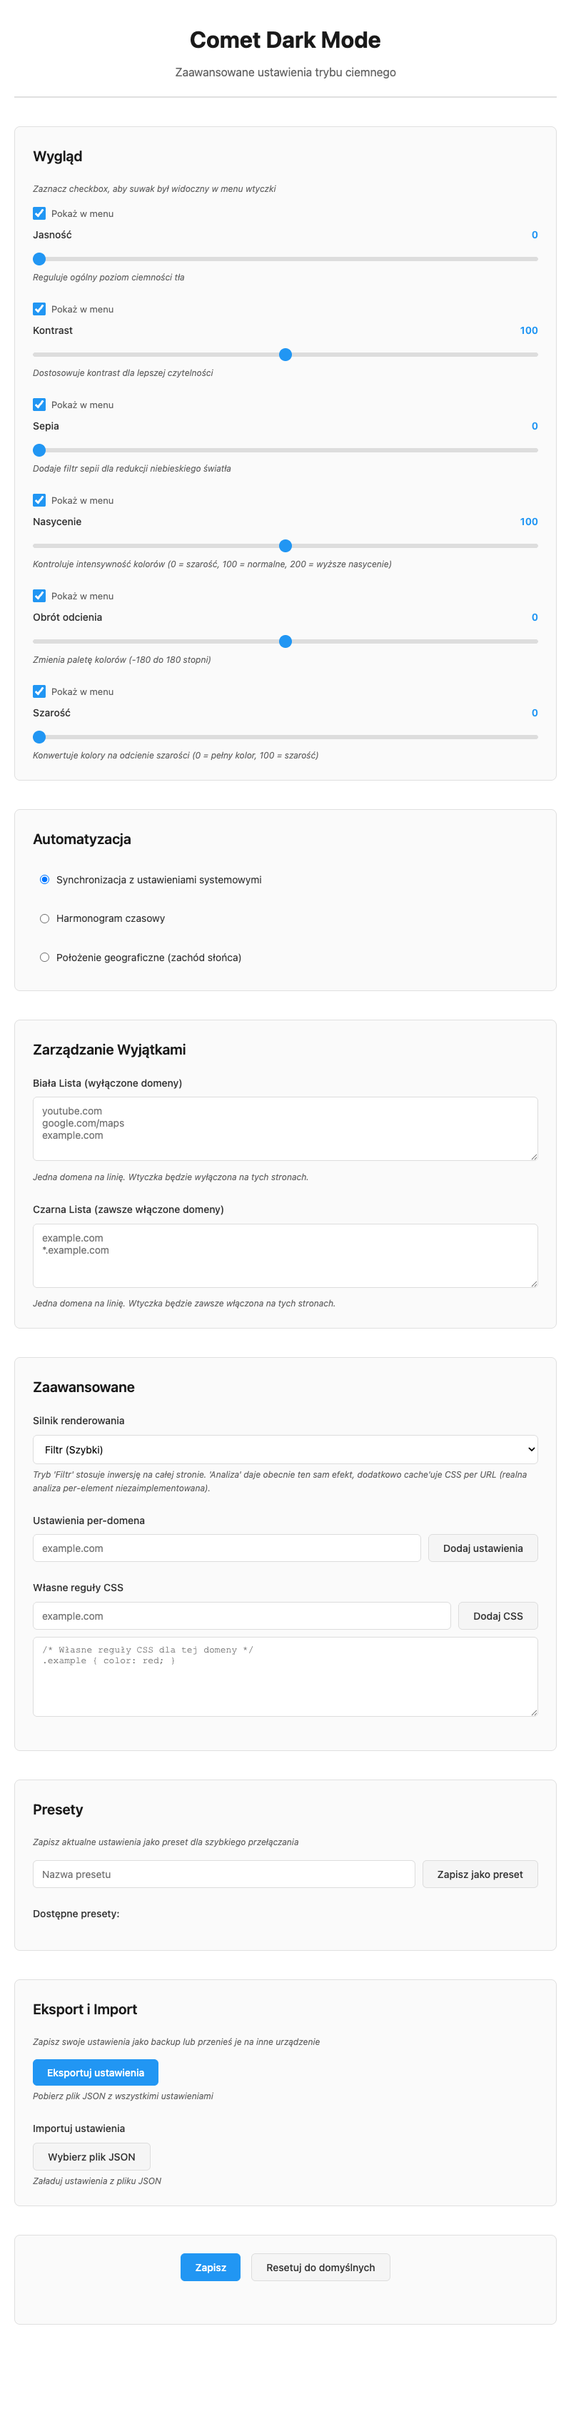
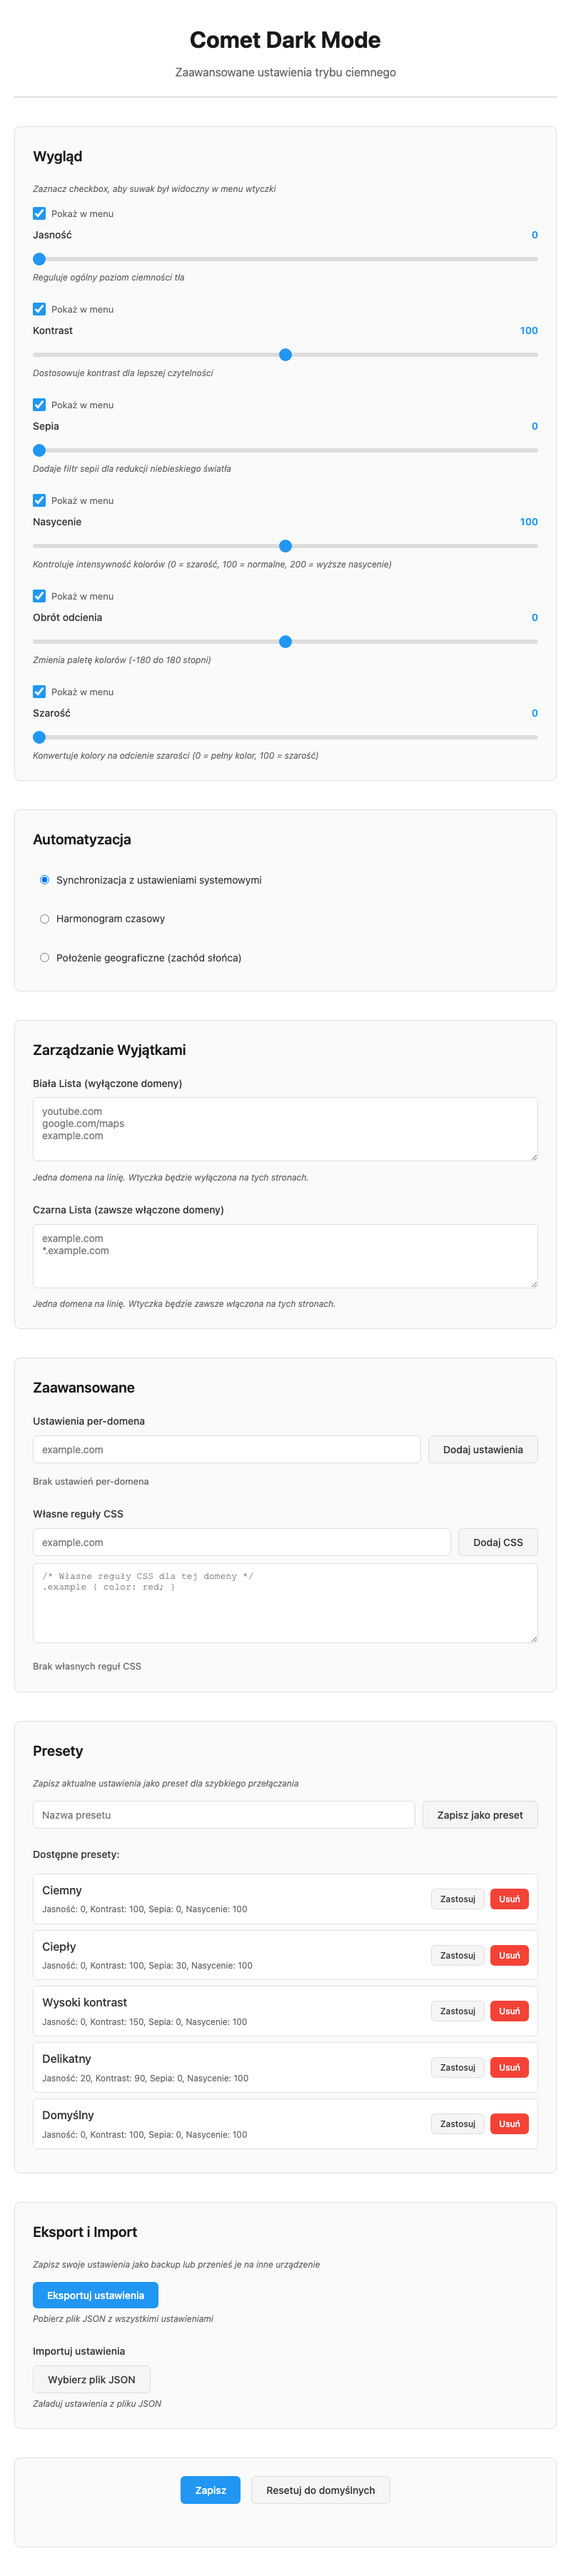
Wersja 1.2.0, nowy zrzut strony opcji

diff --git a/PROGRESS.md b/PROGRESS.md
@@ -46,6 +46,10 @@
   → działa też dla skrótu i automatyzacji). Nowe `icon-off-*` (szare słońce,
   `sun-off-source.svg`). Fix gradientu SVG (`userSpaceOnUse`) — promienie poziome/pionowe
   nie miały koloru. Podgląd na jasnym i ciemnym pasku OK
+- Nowy zrzut `blog/images/opcje.png` (headless Chrome, 800 px, atrapa chrome.* z pustym
+  storage) — bez wyboru silnika, z listą wbudowanych presetów
+- **Wersja 1.2.0** (manifest, README, CLAUDE, CHANGELOG). Zasada od teraz: każda zmiana
+  = podbicie wersji (poprawka → patch)
 - Edytor CSS: jeden listener + `editedCSSDomain` zamiast listenera przy każdym otwarciu.
   Test: 3 domeny edytowane po kolei, każda zapisuje tylko swój tekst
 - (stara notatka) NIE zweryfikowane w prawdziwej wtyczce: brak błysku (harness nie mierzy pierwszego
@@ -54,7 +58,6 @@
 ### Do zrobienia
 - Test w prawdziwej wtyczce: ikona włącz/wyłącz (popup i `Cmd+Shift+D`), strona
   natywnie ciemna (np. GitHub w trybie ciemnym) → powiadomienie
-- Zrzut `blog/images/opcje.png` pokazuje usunięty wybór silnika — do odświeżenia
 - Wariant Firefox: `CLAUDE.md` wspomina V2, w repo brak manifestu — dodać lub poprawić docs
 - Daty w `CHANGELOG.md` (pominięte na razie — brak dat wydań w git)
 - Zrzut `blog/images/opcje.png` nadal pokazuje wybór silnika — do odświeżenia

diff --git a/CLAUDE.md b/CLAUDE.md
@@ -6,7 +6,7 @@ Lekka wtyczka do przeglądarek (Chrome, Edge, Firefox) do globalnego przełącza
 trybu ciemnego z inteligentną inwersją kolorów. Zachowuje oryginalne kolory
 obrazów, wideo i iframe. Bez zewnętrznych zależności.
 
-**Wersja:** 1.1.0 · Manifest V3
+**Wersja:** 1.2.0 · Manifest V3
 
 ## Stack techniczny
 
@@ -46,7 +46,7 @@ Kolejność ładowania content scripts (z `manifest.json`):
 
 ## Aktualny stan
 
-### [x] Ukończone (v1.1.0)
+### [x] Ukończone (v1.2.0)
 - Globalny przełącznik trybu ciemnego (popup + skrót `Ctrl/Cmd+Shift+D`)
 - Silnik **Filtr** (`filter: invert()` na `html`, media odwracane z powrotem); tryb "Analiza" usunięty 2026-10-08
 - Regulacje: jasność, kontrast, sepia, nasycenie, obrót odcienia, szarość
@@ -77,6 +77,8 @@ Kolejność ładowania content scripts (z `manifest.json`):
 - Logi w content scripts przez `debugLog()` / `DarkModeEngine.log()` (wyłączone flagą `DEBUG` / `debug`)
 - Trwałość ustawień przez warstwę `utils/storage.js` (nie odwoływać się do `chrome.storage` bezpośrednio z UI)
 - `commit messages` po polsku, zwięzłe
+- Każda zmiana wtyczki = podbicie wersji (`manifest.json`, `README.md`, `CLAUDE.md`)
+  + sekcja w `CHANGELOG.md`; poprawki → patch (1.2.x), funkcje/usunięcia → minor
 
 ## Znane problemy i bugi
 

diff --git a/CHANGELOG.md b/CHANGELOG.md
@@ -7,6 +7,8 @@ a projekt przestrzega [Semantic Versioning](https://semver.org/lang/pl/).
 
 ## [Nieopublikowane]
 
+## [1.2.0] - 2026-10-08
+
 ### Naprawiono (2026-10-08)
 - **Po przełączeniu wtyczki ikona zmieniała się na starą, prawie niewidoczną** (białe
   słońce) — popup podmieniał ją na `icon-light/dark-*`. Ikonę ustawia teraz

diff --git a/README.md b/README.md
@@ -2,7 +2,7 @@
 
 Lekka i wydajna wtyczka do przeglądarek (Chrome, Firefox, Edge) umożliwiająca globalne przełączanie trybu ciemnego z inteligentną inwersją kolorów.
 
-**Aktualna wersja:** 1.1.0 | [Historia zmian (CHANGELOG)](CHANGELOG.md)
+**Aktualna wersja:** 1.2.0 | [Historia zmian (CHANGELOG)](CHANGELOG.md)
 
 ## Funkcjonalności
 
